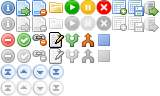
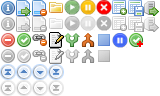
#310: Add visual indicators for download state

Changed region(s): [[0.6875, 0.3438, 0.9062, 0.5], [0.4062, 0.0, 0.5, 0.1562]]

diff --git a/chrome/content/dta/manager/tree.js b/chrome/content/dta/manager/tree.js
@@ -47,7 +47,7 @@ var Tree = {
 		this._downloads = [];
 
 		let as = Serv('@mozilla.org/atom-service;1', 'nsIAtomService');
-		for each (let e in ['iconic', 'completed', 'inprogress', 'paused', 'canceled', 'pausedUndetermined', 'pausedAutoretrying']) {
+		for each (let e in ['iconic', 'completed', 'inprogress', 'paused', 'canceled', 'pausedUndetermined', 'pausedAutoretrying', 'verified', 'progress']) {
 			this['_' + e] = as.getAtom(e);
 		}
 		this.elem.view = this;	
@@ -142,10 +142,12 @@ var Tree = {
 		return null;
 	},
 	getCellProperties: function T_getCellProperties(idx, col, prop) {
-		if (col.index == 1) {
+		let cidx = col.index;
+		if (cidx == 1) {
+			prop.AppendElement(this._iconic);
+			prop.AppendElement(this._progress);
 			let d = this._downloads[idx];
 			switch (d.state) {
-				case COMPLETE: prop.AppendElement(this._completed); return;
 				case PAUSED:
 					prop.AppendElement(this._paused);
 					if (!d.totalSize || d.partialSize / d.totalSize < .05) {
@@ -158,9 +160,15 @@ var Tree = {
 				case FINISHING:
 				case RUNNING: prop.AppendElement(this._inprogress); return;
 				case CANCELED: prop.AppendElement(this._canceled); return;
+				case COMPLETE:
+					prop.AppendElement(this._completed);
+					if (d.hash) {
+						prop.AppendElement(this._verified);
+					}
+				return;
 			}
 		}
-		else if (col.index == 0) {
+		else if (cidx == 0) { 
 			prop.AppendElement(this._iconic);
 		}
 	},

diff --git a/chrome/skin/manager/style.css b/chrome/skin/manager/style.css
@@ -217,6 +217,9 @@ stack > #infoPercent {
 	padding-left: 2ex;
 }
 
+treechildren::-moz-tree-progressmeter {
+	margin-left: 0;
+}
 treechildren::-moz-tree-progressmeter(completed) {
   color: #008F00 !important;
 }
@@ -238,6 +241,37 @@ treechildren::-moz-tree-progressmeter(queued) {
 treechildren::-moz-tree-progressmeter(inprogress) {
   color: #AAE061 !important;
 }
+
+treechildren::-moz-tree-image(iconic) {
+	list-style-image: url(menu.png);
+	-moz-image-region: rect(16px,96px,32px,80px);	
+}
+treechildren::-moz-tree-image(iconic,progress) {
+	list-style-image: url(menu.png);
+	-moz-image-region: rect(16px,96px,32px,80px);	
+	padding-right: 0.2ex !important;
+}
+treechildren::-moz-tree-image(iconic,canceled) {
+	-moz-image-region: rect(0px,112px,16px,96px);
+}
+treechildren::-moz-tree-image(iconic,paused) {
+	-moz-image-region: rect(0px,96px,16px,80px);
+}
+treechildren::-moz-tree-image(iconic,paused,pausedAutoretrying) {
+	-moz-image-region: rect(32px,128px,48px,112px);
+}
+treechildren::-moz-tree-image(iconic,inprogress) {
+	-moz-image-region: rect(0px,80px,16px,64px);
+}
+treechildren::-moz-tree-image(iconic,completed) {
+	-moz-image-region: rect(32px,32px,48px,16px);
+}
+treechildren::-moz-tree-image(iconic,completed,verified) {
+	-moz-image-region: rect(32px,144px,48px,128px);
+}
+
+
+
 textbox.plain {
 	background-color: transparent !important;
 }
